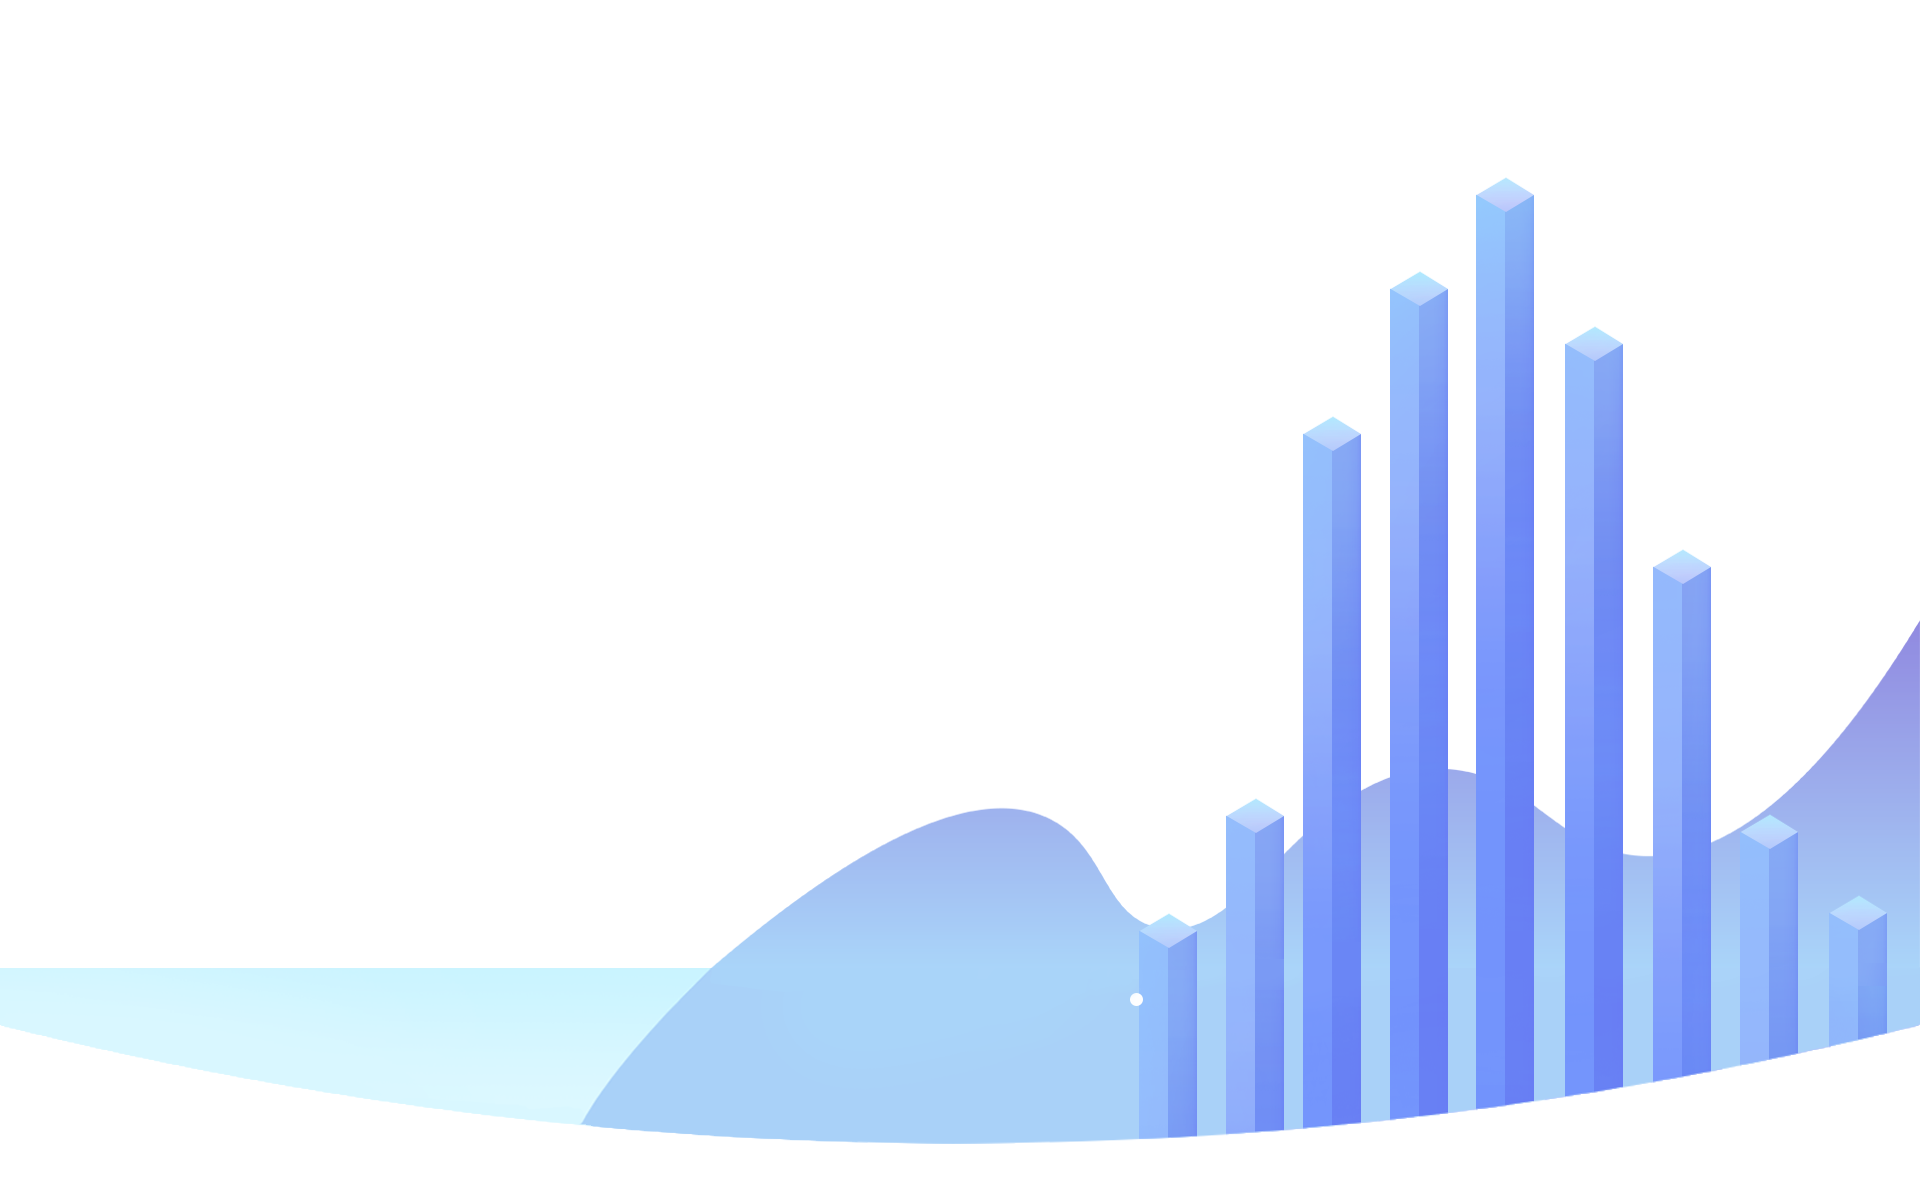
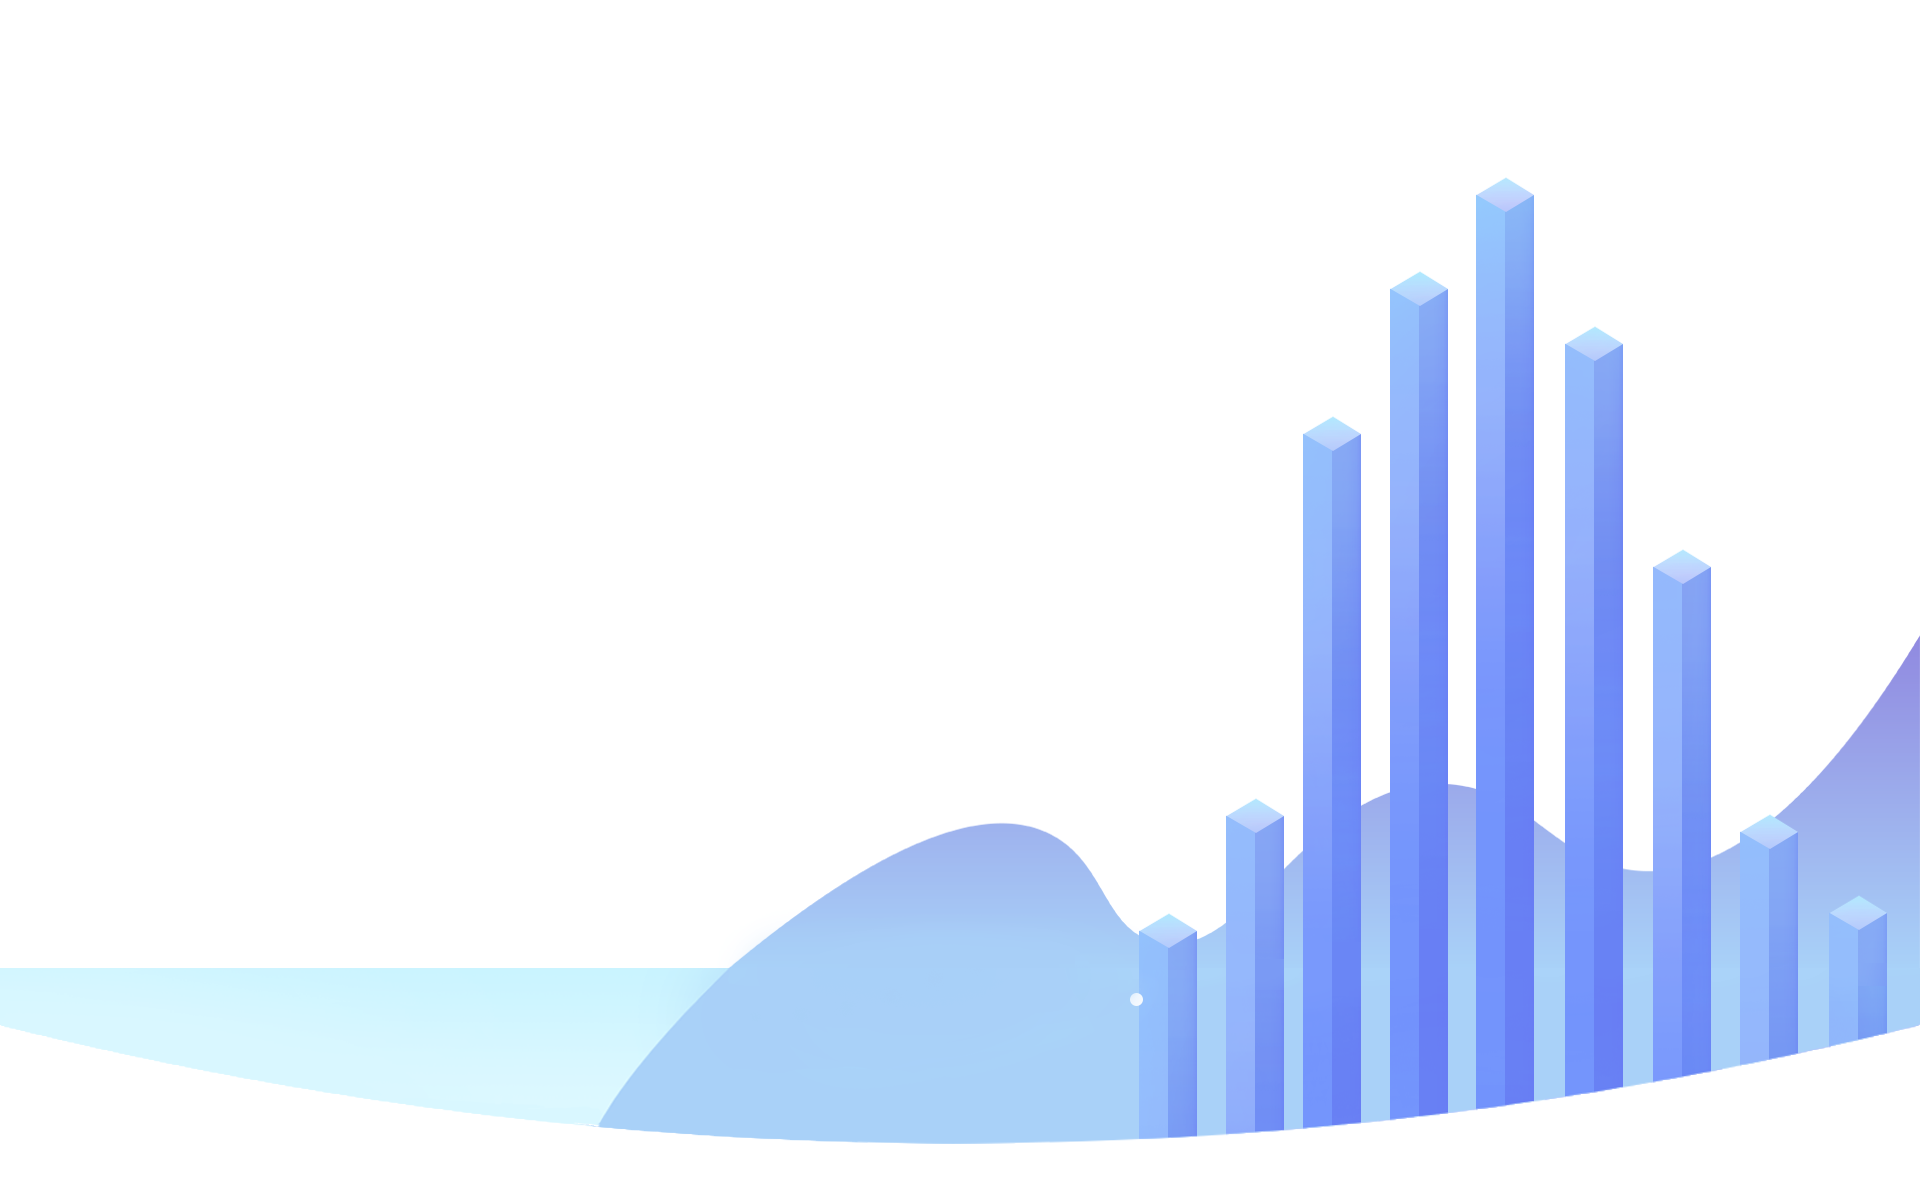
background fixes

diff --git a/css/custom.css b/css/custom.css
@@ -91,7 +91,7 @@ h3 {
 
 .absolute-bl {
     position: absolute;
-    bottom: 20px;
+    bottom: 5px;
     left: 20px;
 }
 
@@ -103,27 +103,27 @@ h3 {
 
 #home {
     position: relative;
-    height: 896px;
+    height: 880px;
     width: 100%;
 }
-
 
 /* Home Background Area */
 
 #home-background {
     position: absolute;
     width: 100%;
-    height: 100%;
+    height: calc(100% + 230px);
     z-index: -1;
     bottom: 0;
+    margin-bottom: -247px;
     right: 0;
     overflow: hidden;
 }
 
 .img1 {
     position: absolute;
-    width: 95%;
-    height: 95%;
+    width: 100%;
+    height: 100%;
     z-index: -1;
     bottom: 0;
     right: 0;
@@ -136,19 +136,20 @@ h3 {
 }
 
 .img2 {
-    position: absolute;
-    width: 90%;
-    height: 90%;
+    position: absolute; 
+    width: 80%;
+    height: 80%;
     z-index: -1;
-    bottom: 0;
-    right: 0;
+    bottom: 215px;
+    right: -20px;
     background-position: right bottom;
     background-size: cover;
     background-image: url("../img/2.svg"); 
     transform-origin:bottom right;
+    overflow: hidden;
 }
 
-.img3 {
+/* .img3 {
     position: absolute;
     width: 100%;
     height: 100%;
@@ -158,8 +159,8 @@ h3 {
     background-position: right bottom;
     background-size: cover;
     background-image: url("../img/3.svg"); 
-    transform-origin:bottom right;
-}
+    transform-origin:bottom right; 
+} */
 
 .img4 {
     position: absolute;
@@ -189,7 +190,7 @@ h3 {
     }
     100% {
         transform: scale(2.0);
-        -webkit-transform: scale(1.05);
+        -webkit-transform: scale(1.01);
     }
 }
 
@@ -356,15 +357,24 @@ h3 {
     flex-basis: 33.3%;
 }
 
+.col-5 {
+    flex-basis: 41.8%;
+}
+
 .col-6 {
     flex-basis: 50%;
+}
+
+.col-7 {
+    flex-basis: 58.3%;  
 }
 
 .col-8 {
     flex-grow: 66.6%;
 }
+
 .col-9 {
-    flex-grow: 75%;
+    flex-basis: 75%;
 }
 
 .invisible {
@@ -636,27 +646,20 @@ h4 {
 }
 
 .resume {
-    position: relative;
-    width: 70%;
-    height: 400px;
-    vertical-align: top;
-    display: inline-block;
-    margin-left: 8%;
-    float: left;
-    margin-top: 8%;
-    text-align: center;
+    align-items: center;
 }
 
 .resume-img {
     width: 250px;
     height: 320px;
+    margin-left: 200px;
+    margin-right: 50px;
     border: 1px solid rgba(0, 0, 0, 0.2);
-    margin-bottom: 30px;
     box-shadow: -15px 15px rgba(0, 0, 0, 0.5);
-    
 }
 
 .r-button {
+    margin-left: 130px;
     position: relative;
     display: block;
     text-decoration: none;
@@ -668,7 +671,7 @@ h4 {
     transition: color 0.4s;
     text-transform: uppercase;
     width: 120px;
-    margin-left: 35%;
+    margin-top: 20px;
     transition: all 0.4s cubic-bezier(0.68, -0.55, 0.265, 1.55);
 }
 
@@ -676,7 +679,6 @@ h4 {
     content: '';
     height: 1em;
     left: 1rem;
-    margin-left: 21%;
     right: 0;
     top: 0.6rem;
     background: #FDB92D;
@@ -721,6 +723,8 @@ h4 {
 }
 
 .p-top-20 {
+    margin-left: 5%;
+    margin-right: 5%;
     padding-top: 20px;
 }
 

diff --git a/index.html b/index.html
@@ -23,13 +23,13 @@
                     <a class="nav-link active-toggle" href="#portfolio">Portfolio</a>
                 </li>
                 <li class="nav-item">
-                    <a class="nav-link active-toggle" href="/pdf/Resume.pdf" target="_blank">Resume</a>
+                    <a class="nav-link active-toggle" href="./pdf/Resume.pdf" target="_blank">Resume</a>
                 </li>
                 <!-- <li class="nav-item">
                     <a class="nav-link active-toggle" href="#" target="_blank">Client Website</a>
                 </li> -->
                 <li class="nav-item">
-                    <a class="nav-link active-toggle" href="/exercises/index.html" target="_blank">Exercises</a>
+                    <a class="nav-link active-toggle" href="./exercises/index.html" target="_blank">Exercises</a>
                 </li>
             </ul>
         </nav>
@@ -308,11 +308,11 @@
         <section id="about">
             <a name="about"></a>
             <div class="a-container d-flex flex-row">
-                <div class="resume">
-                    <img class="resume-img" src="img/resume.svg">
+                <div class="resume col-6 justify-center">
+                    <div><img class="resume-img" src="img/resume.svg"></div>
                     <a class="r-button" href="#">Resume</a>
                 </div>
-                <div class="section-heading p-top-20">
+                <div class="section-heading p-top-20 col-6">
                     <h2 class="title-light">About</h2>
                     <h2 class="title-bold">Me</h2>
                     <div class="line-shape"></div>
